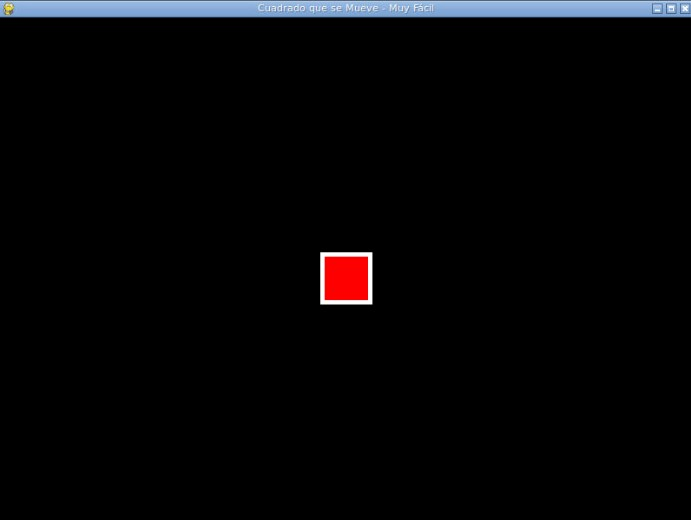
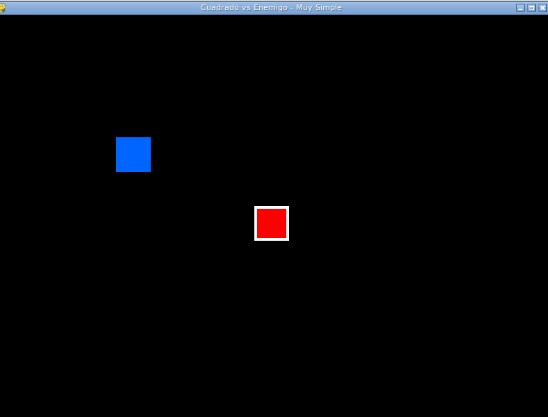
update

Changed region(s): [[0.0, 0.0, 1.0, 0.0624], [0.4653, 0.4676, 0.5584, 0.5923], [0.1861, 0.3118, 0.2792, 0.4365]]

diff --git a/sobre_nosotros.html b/sobre_nosotros.html
@@ -118,7 +118,7 @@
                 Desarrollo de cursos en formato H5P.
               </li>
               <li>
-                Los cursos tratan sobre: viajes espaciales, cuántica, biotecnologia, ciudades ecológicas y manipulación climática.
+                Los cursos tratan sobre: viajes espaciales, cuántica, biotecnologia, ciudades ecológicas, manipulación climática y premoniciones.
               </li>
               <li>
                 Todos ellos cuentan con una introducción que detalla los puntos clave del curso y al público al que se dirige.
